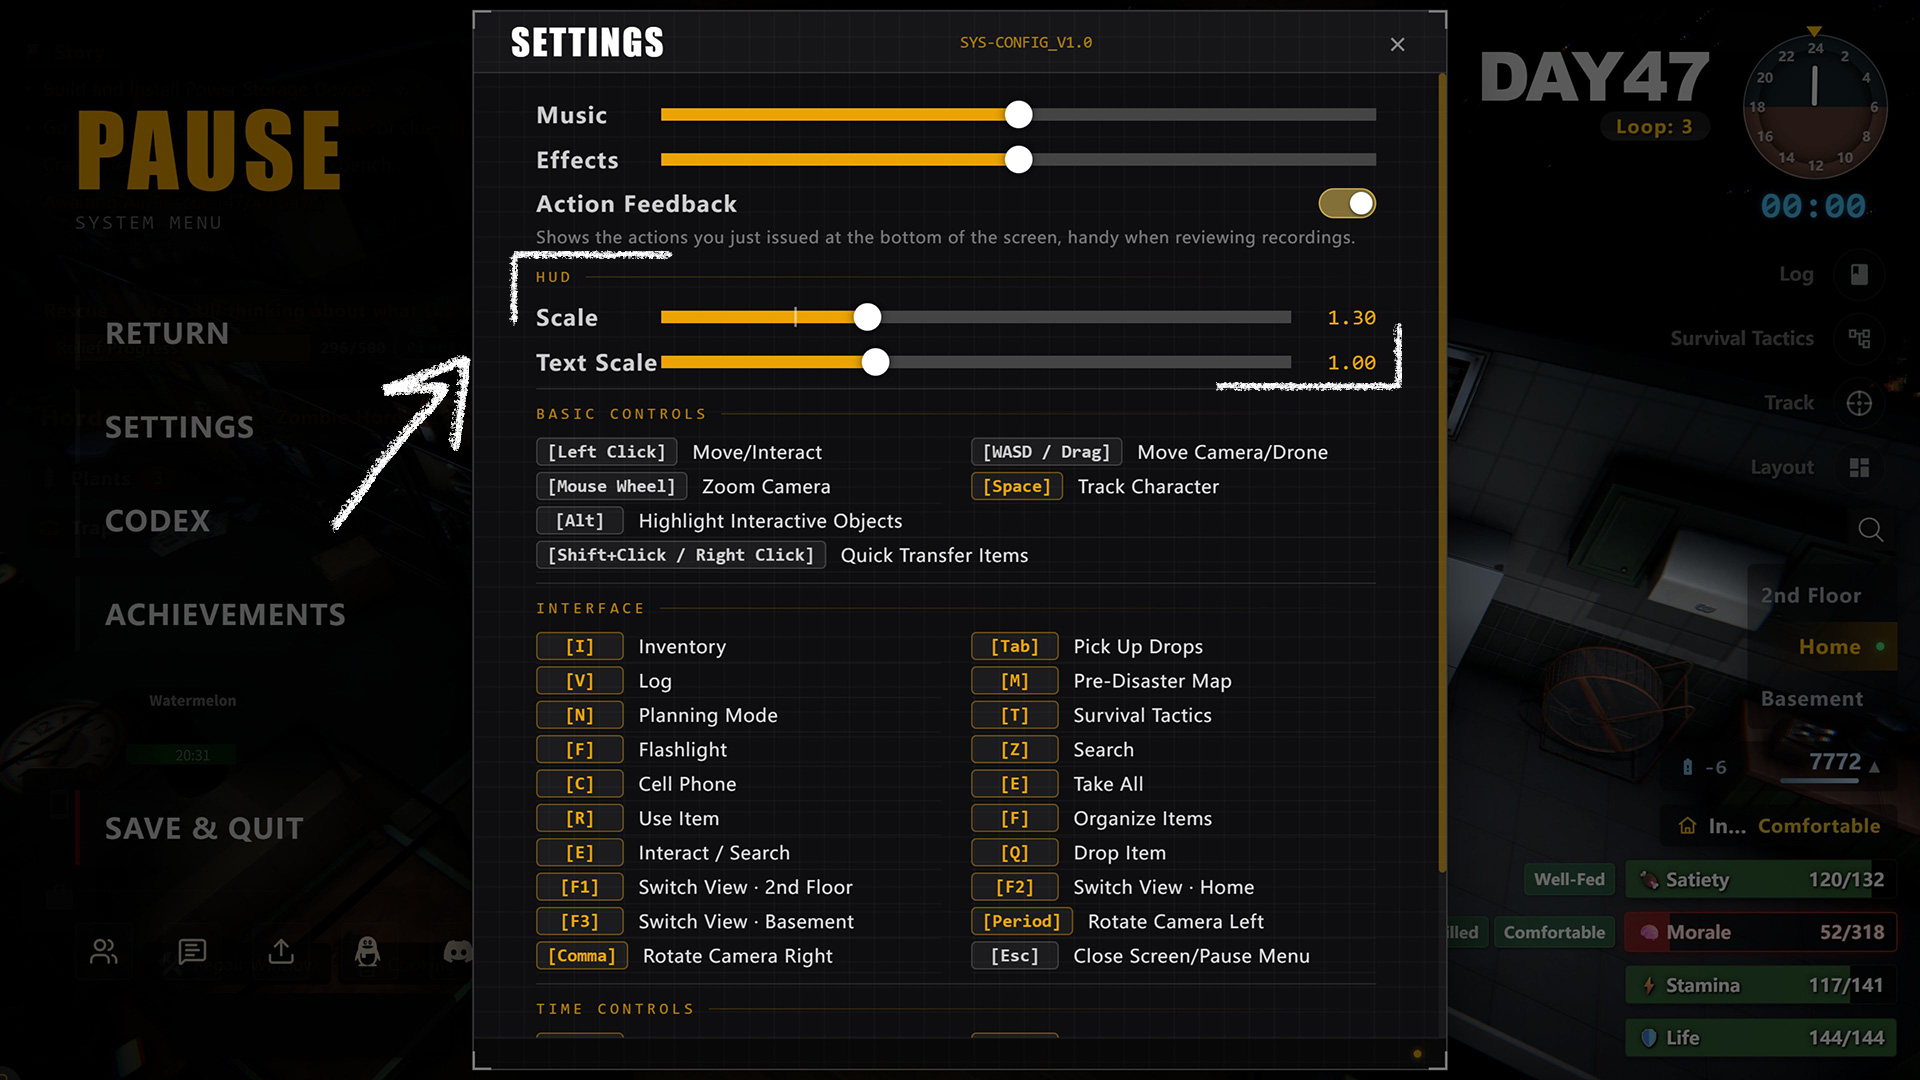
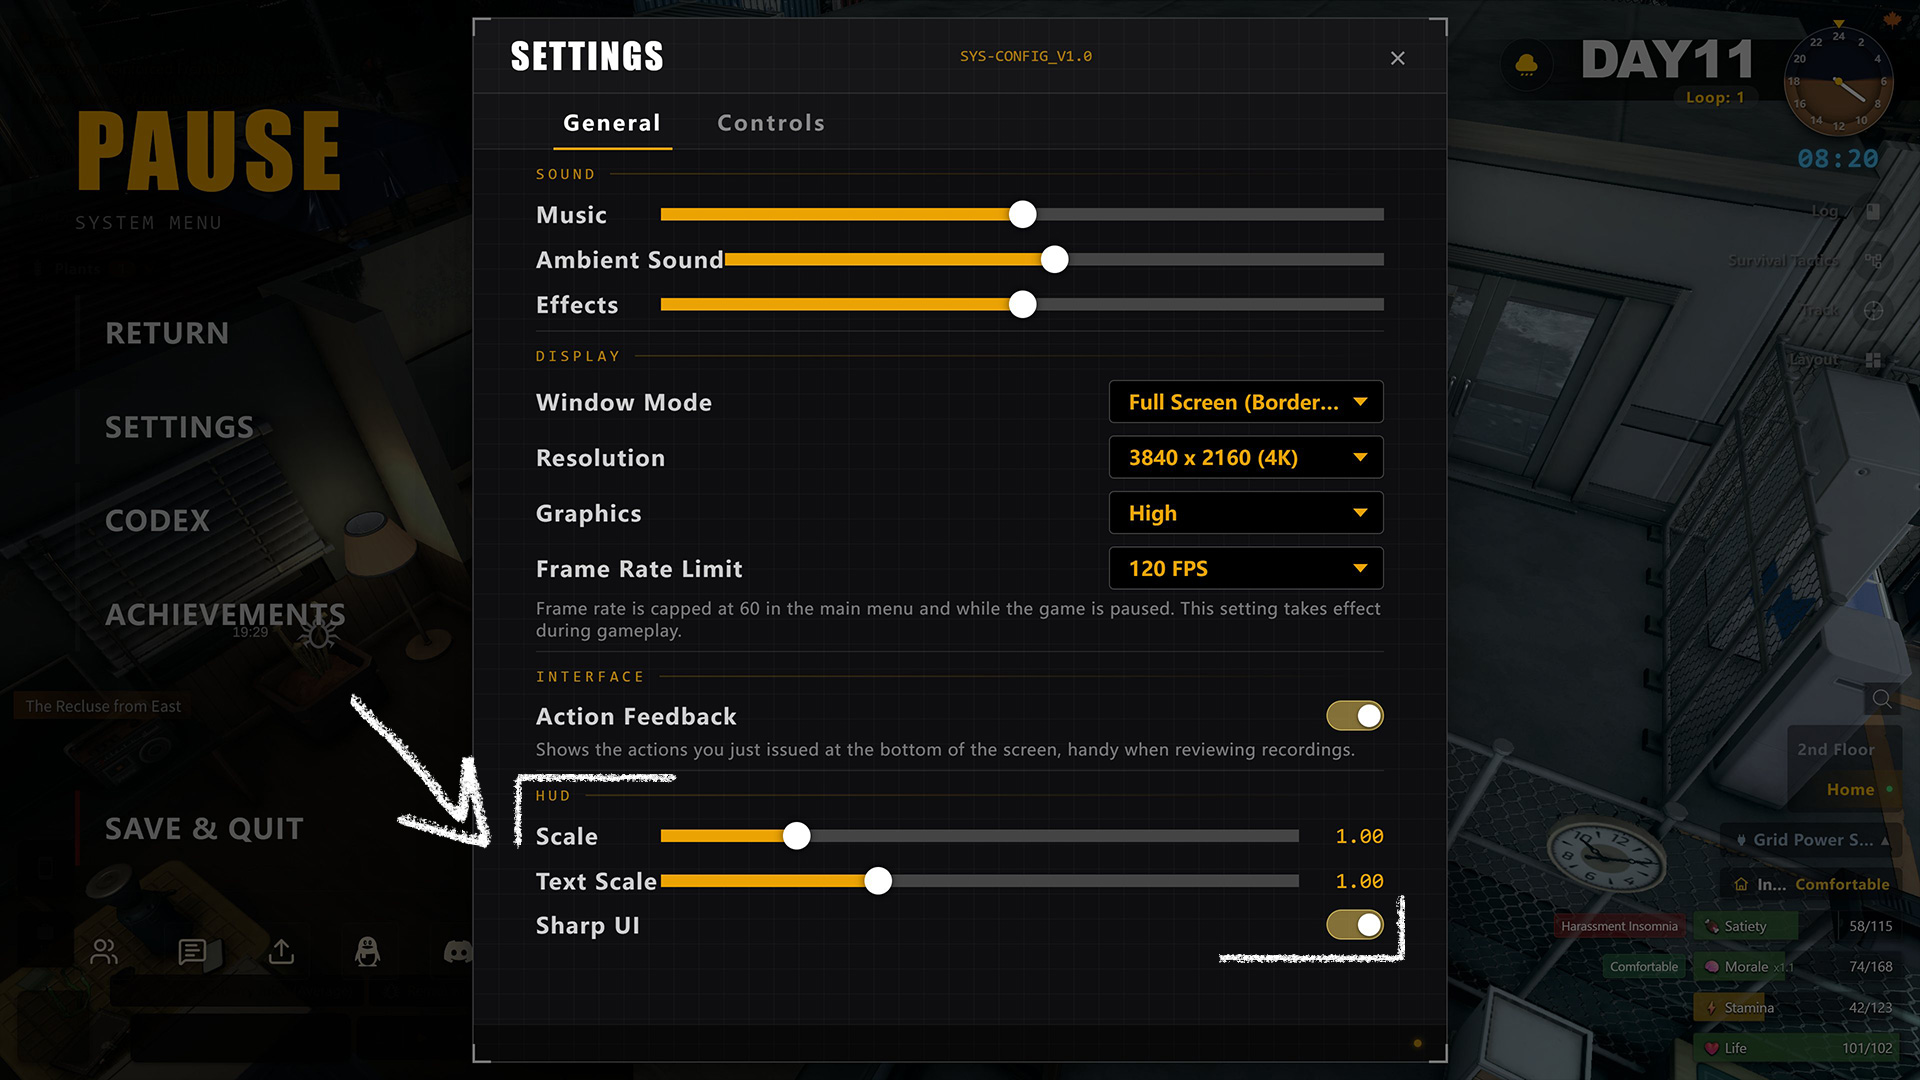
Nexus images: the title card with the Sharp UI switch, and the settings window in the current game layout

diff --git a/nexus/images/README.md b/nexus/images/README.md
@@ -3,7 +3,7 @@
 Nexus page images, tracked in the repo. The background is 1300x372, the gallery images are 1920x1080. The mods-grid thumbnail is not a separate file: Nexus picks it from the uploaded gallery images. The images were prepared by hand from in-game screenshots of one scene, at the game's own values and with the mod settings shown on each image. "Default" on the images means the game's own values (`HudZoom: 1.3`, `HudTextScale: 1`), not the mod's config defaults.
 
 - `sl-hud-scale-banner.jpg` - the mod page background image (1300x372): the HUD panel of the settings window, with the Scale and Text Scale sliders.
-- `sl-hud-scale-thumb.jpg` - title card (1920x1080): the "HUD Scale" wordmark beside a resize icon. Pick this as the mods-grid thumbnail.
+- `sl-hud-scale-thumb.jpg` - title card (1920x1080): the "HUD Scale" wordmark beside the HUD panel (Scale, Text Scale, and the Sharp UI switch), with an arrow to the switch and the label "+4K Blurry Text Fix". Pick this as the mods-grid thumbnail.
 - `sl-hud-scale-comparison-2.jpg` - before and after (1920x1080): the HUD at the game's values ("Default", `HudZoom: 1.3`, `HudTextScale: 1`) beside `HudZoom: 1` and `HudTextScale: 0.8` ("Mod"). The quest lines that end in "..." at the game's values show in full. The first gallery image after the title card.
 - `sl-hud-scale-comparison-1.jpg` - before and after (1920x1080): the HUD at the game's values beside `HudZoom: 1` and `HudTextScale: 1` (the mod's config defaults). The zoom alone makes the HUD smaller, but the text still ends in "...".
-- `sl-hud-scale-settings.jpg` - the settings window (1920x1080) during play, with the HUD panel marked below Action Feedback, at the game's values (Scale `1.30`, Text Scale `1.00`).
+- `sl-hud-scale-settings.jpg` - the settings window (1920x1080) during play, in the game layout of 1.1.18317 (Sound, Display, Interface), with the HUD panel marked below Action Feedback: Scale `1.00`, Text Scale `1.00` (the mod's defaults), and the Sharp UI switch on, at 3840 x 2160 on High.
